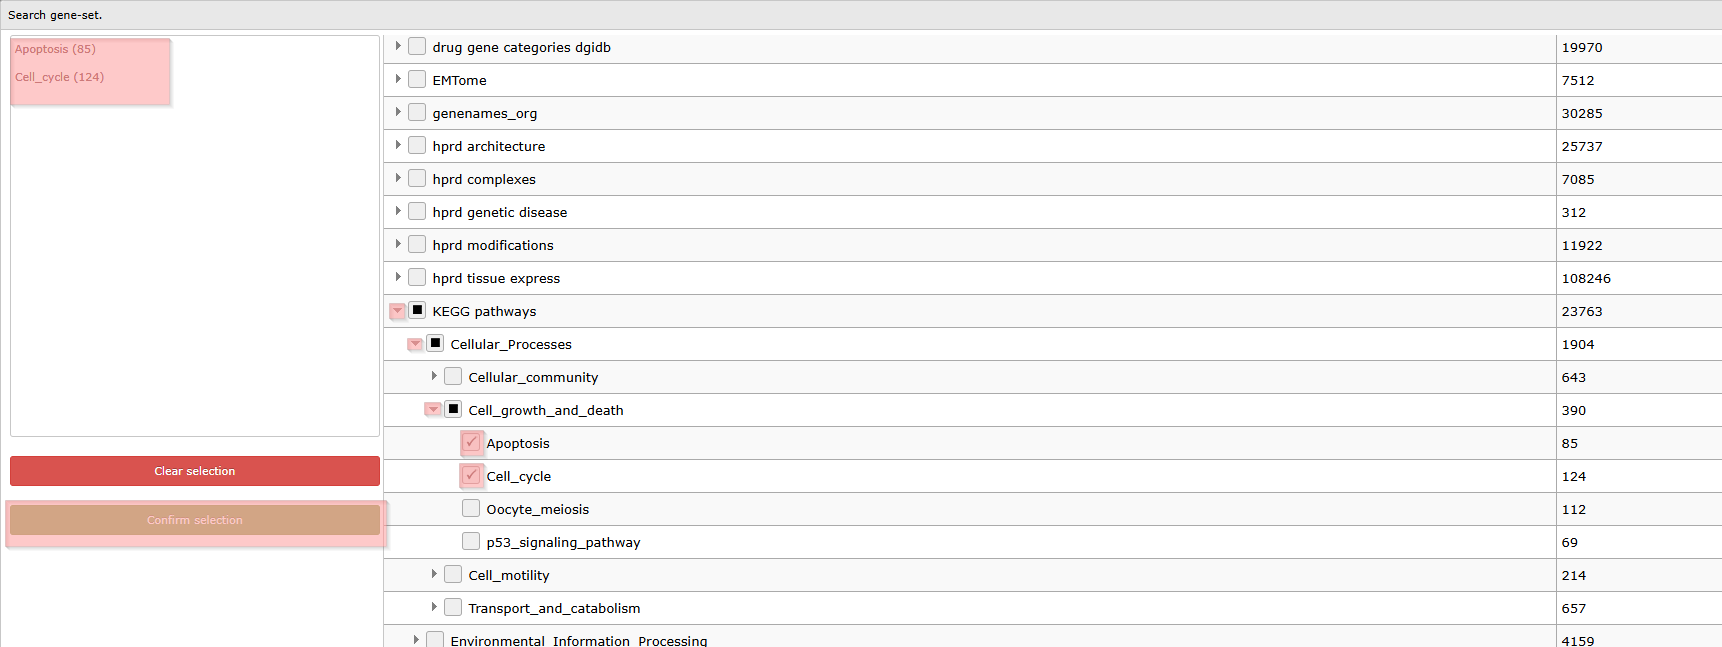
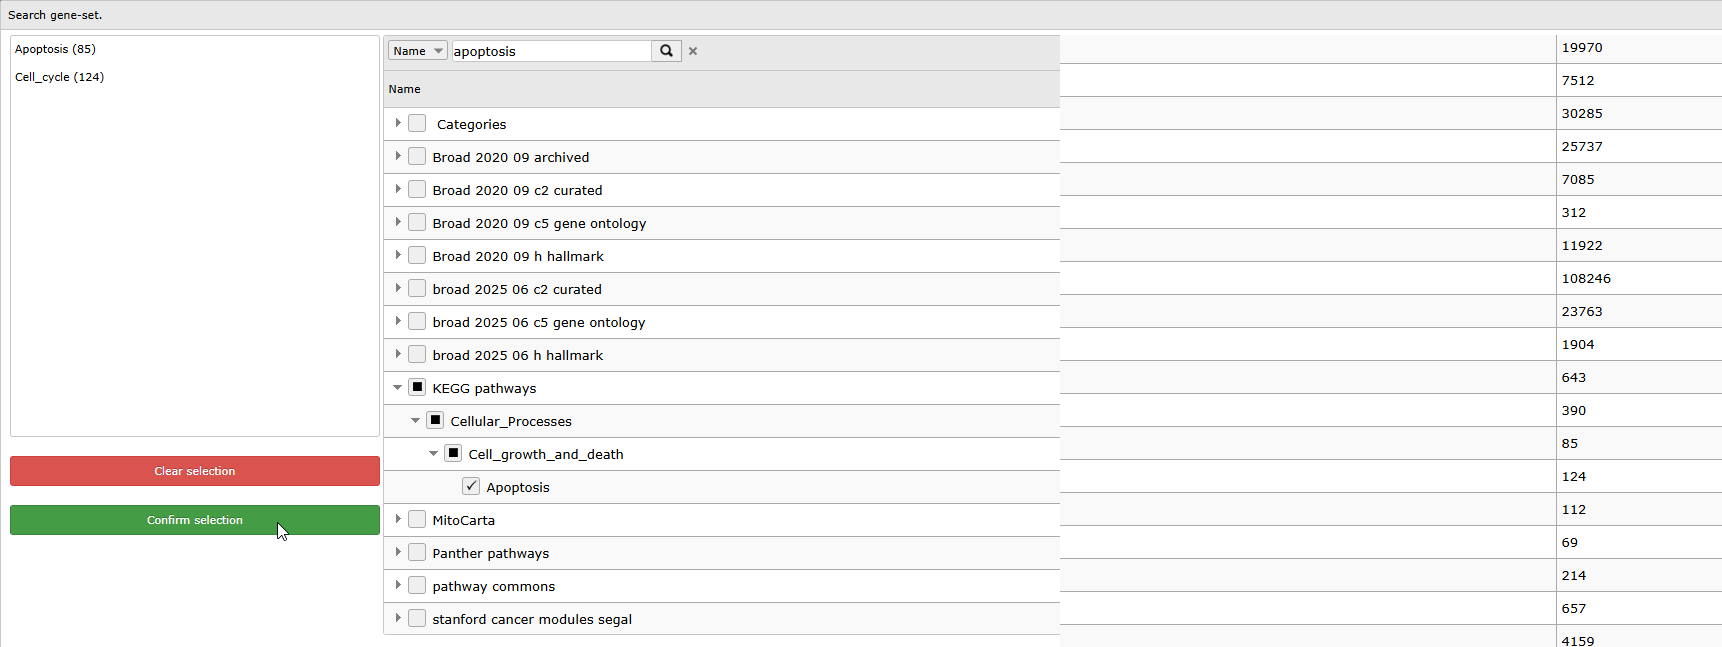
multiple genesets update

Changed region(s): [[0.0, 0.0618, 0.4309, 1.0], [0.0, 0.0618, 0.1231, 0.1855]]

diff --git a/docs/Using_Signatures.md b/docs/Using_Signatures.md
@@ -16,15 +16,17 @@ Scope
 
 
 
-Within the current context, we define a signature as a collection of
+To interpret gene-expression data at the level of biological processes rather than individual genes, R2 offers several ways to convert a list of genes (a “signature” or “gene set”) into a single activity score per sample. These methods differ in how they summarize the expression patterns of the genes in the signature and in how sensitive they are to subtle differences across samples. In this chapter we introduce three approaches: the weighted average z-score used by R2, ssGSEA, and GSVA.  
+  
+Why We define a signature as a collection of
 genes that are defined on a particular basis. This can be the presence
 within a gene-ontology class, the genomic location of a gene, or perhaps
 something potentially more meaningful like a functional pathway
 signature. Functional pathway signatures are mRNA proxies for a
-particular perturbation, such as the response to the downregulation of a
+particular perturbation, such as the response to the down regulation of a
 gene, or the consequence of a targeted compound (drug). Especially in
 this context, the collection of genes may have predictive power for the
-activity of a process. Of course it becomes cumbersome to assess the
+activity of a process. Of course, it becomes cumbersome to assess the
 activity on a gene-by-gene basis. It would be very handy if we could
 express the behavior of all the genes in a single value. Within R2, we
 can convert the behavior of a list of genes into a signature score that
@@ -50,10 +52,10 @@ they follow a specific convention (fixed prefix, followed by \_up and
 [**Figure 1: Signature score: one category vs up/downcategory**](_static/images/Genesetsignatures/Genesetcorrelation_sig_score_explained_v0.png)
 
 
--   What is a genesignature
--   Create a track using the weight scores of a genesignature
--   Relate a weighed genesignature track to a single gene
--   Find correlating genesignatures with a track
+-   What is a gene signature
+-   Create a track using the weight scores of a gene signature
+-   Relate a weighed gene signature track to a single gene
+-   Find correlating gene signatures with a track
 
 ------------------------
   ![](_static/images/R2d2_logo.png)**Did you know that you can create gene category couples**
@@ -66,10 +68,10 @@ they follow a specific convention (fixed prefix, followed by \_up and
 Step 1: Creating a geneset signature, a Track within R2
 ---------------
 
-As a start, let"s create the signature scores for a pair of gene
+As a start, let's create the signature scores for a pair of gene
 categories. In this tutorial, we will make use of a published functional
 MYCN pathway activity signature that was created on the Neuroblastoma 88
-dataset (Valentijn et al 2012). This signature is provided within R2.
+dataset (Valentijn et al. 2012). This signature is provided within R2.
 
 1.  We start at "Main". Make sure that the "Single dataset" option is
     selected in "box 1".
@@ -312,12 +314,19 @@ You can use the gene signature correlation option in order to identify genes whi
     
     [**Figure 15: Ordered R-values + XY-plot**](_static/images/Genesetsignatures/genesignature_graphtableva.png)
 
-You can also select multiple categories to investigate the individual contribution of genes to a signature score. R2 will automatically keep the coloring for the separate gene categories.  
+You can also select multiple gene sets to investigate the individual contribution of genes to a signature score. R2 will automatically keep the coloring for the separate gene sets.  
 
 
 
-
-
+Alternative signature score algorithms in R2
+---------------
+The R2 signature score algorithm is an unsupervised single sample enrichment score, that creates a fast and intuitive summary of gene set behavior in your dataset, but it comes with some assumptions that are not always correct. 
+It assumes that genes The R2 platform has another module that calculates unsupervised single sample enrichment scores: the Gene Set Variation Analysis (GSVA) and the single sample GSEA (ssGSEA).  
+The input is again a gene expression matrix and a (collection) of gene set(S) and the output is a heatmap with a geneset per row and the samples in the columns.
+The benefit of this module is that it is specifically designed for viewing the gene set enrichments scores themselves in a heatmap and therefor allowing 
+The module that is also handy for looking at larger selection of GSVA (Gene Set Variation Analysis) takes a gene-expression dataset and converts it into pathway- or geneset activity scores for every sample.
+Similarly to the signature score above, GSVA  looks at how active a gene set is in each sample, compared with the other samples. 
+It does this without needing any predefined groups (unsupervised).
 
 
 
